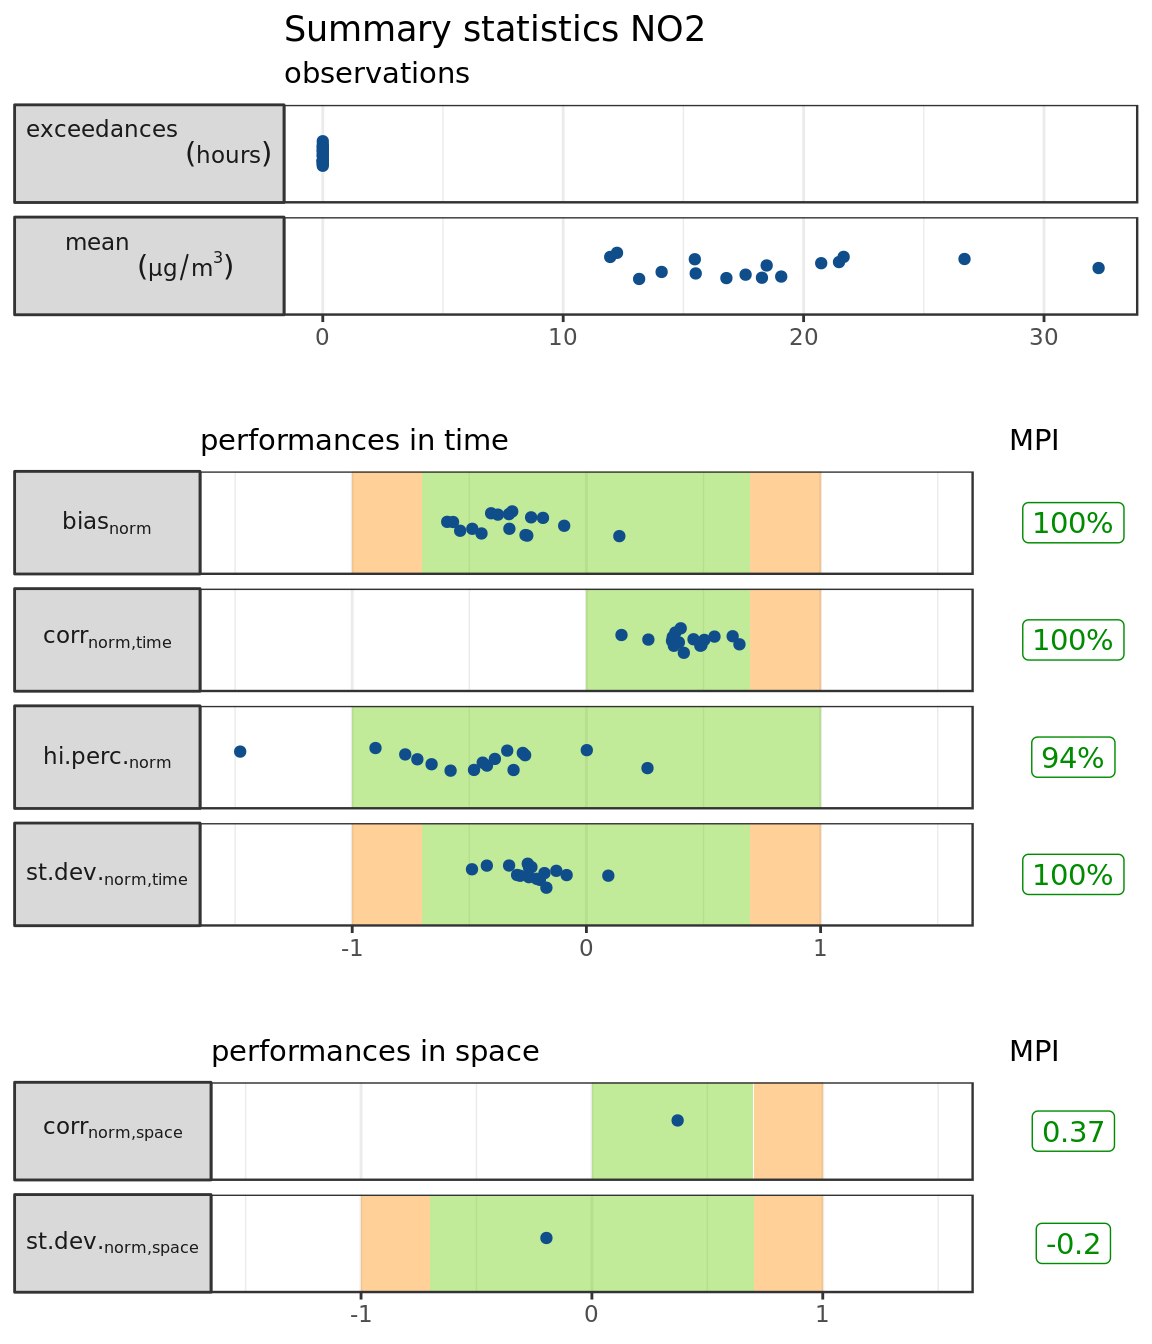
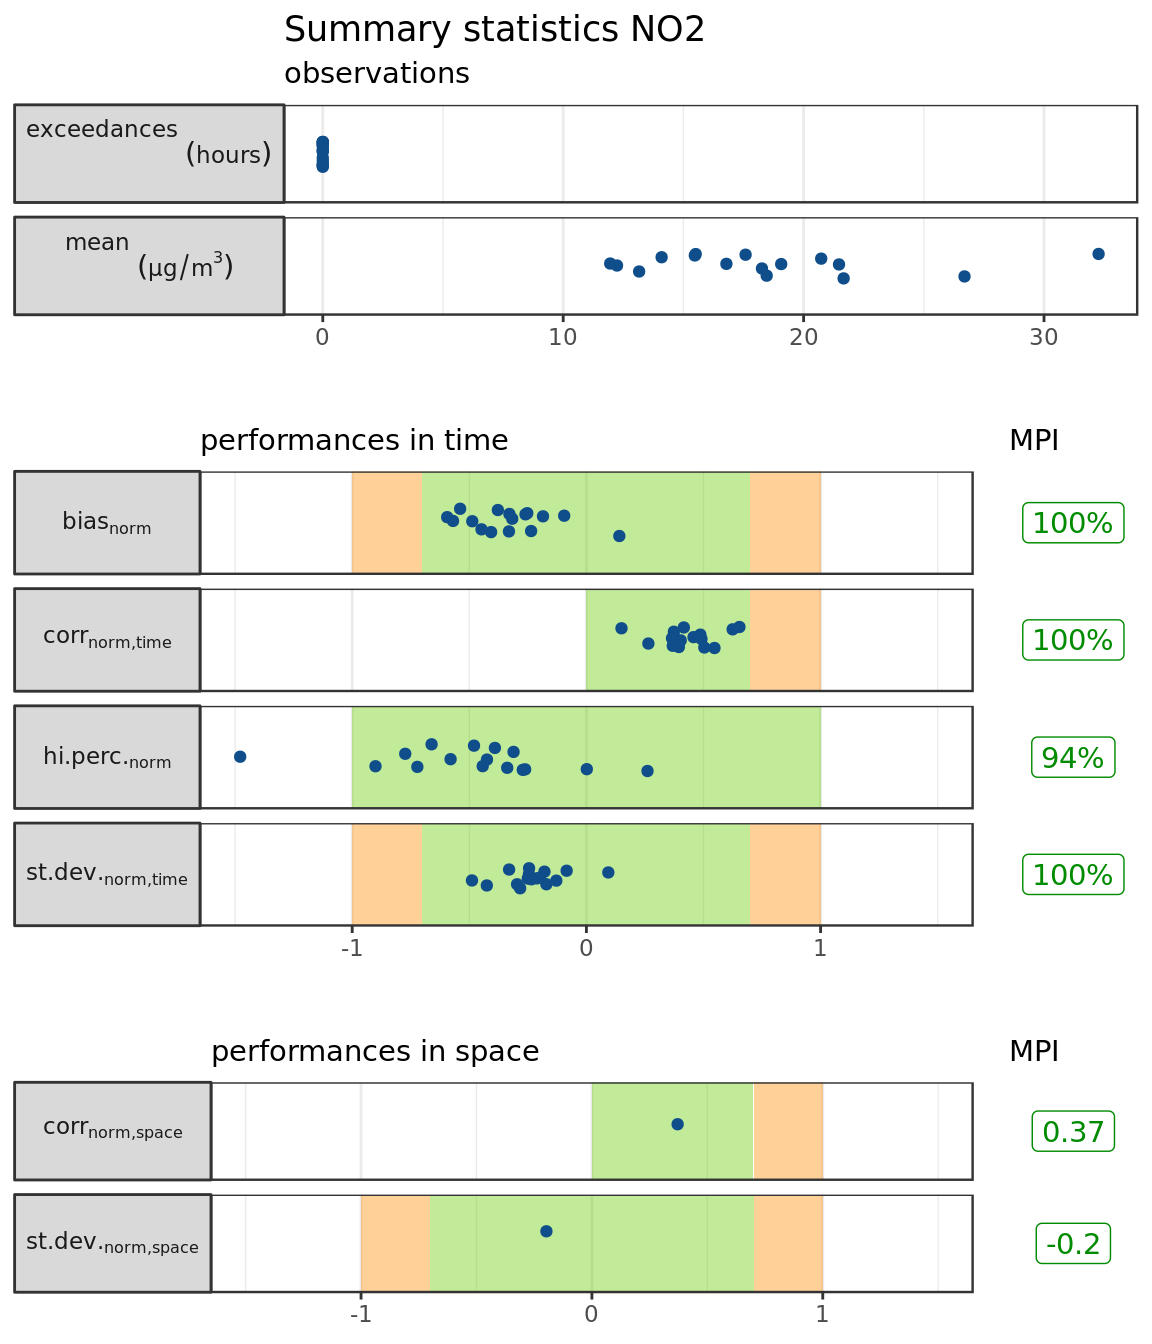
updated doc pages

diff --git a/docs/articles/dartle-usage.html b/docs/articles/dartle-usage.html
@@ -31,7 +31,7 @@
       </button>
       <span class="navbar-brand">
         <a class="navbar-link" href="../index.html">dartle</a>
-        <span class="version label label-default" data-toggle="tooltip" data-placement="bottom" title="Released version">0.1.1</span>
+        <span class="version label label-default" data-toggle="tooltip" data-placement="bottom" title="Released version">0.1.2</span>
       </span>
     </div>
 
@@ -567,19 +567,19 @@ t_rep &lt;-<span class="st"> </span><span class="kw"><a href="../reference/targe
 <div class="sourceCode"><pre class="sourceCode r"><code class="sourceCode r">s_rep &lt;-<span class="st"> </span><span class="kw"><a href="../reference/summary_plot.html">summary_report</a></span>(Dat.pm10, <span class="dt">obs =</span> <span class="st">"Value.obs"</span>, <span class="dt">mod =</span> <span class="st">"Value.mod"</span>,
                        <span class="dt">point =</span> <span class="st">"Point"</span>, <span class="dt">pollutant =</span> <span class="st">"PM10"</span>)
 <span class="kw"><a href="../reference/summary_plot.html">summary_plot</a></span>(s_rep)</code></pre></div>
-<p><img src="dartle-usage_files/figure-html/unnamed-chunk-20-1.png" width="576">NULL</p>
+<p><img src="dartle-usage_files/figure-html/unnamed-chunk-20-1.png" width="576"></p>
 <div class="sourceCode"><pre class="sourceCode r"><code class="sourceCode r">s_rep &lt;-<span class="st"> </span><span class="kw"><a href="../reference/summary_plot.html">summary_report</a></span>(Dat.pm25, <span class="dt">obs =</span> <span class="st">"Value.obs"</span>, <span class="dt">mod =</span> <span class="st">"Value.mod"</span>,
                        <span class="dt">point =</span> <span class="st">"Point"</span>, <span class="dt">pollutant =</span> <span class="st">"PM2.5"</span>)
 <span class="kw"><a href="../reference/summary_plot.html">summary_plot</a></span>(s_rep)</code></pre></div>
-<p><img src="dartle-usage_files/figure-html/unnamed-chunk-21-1.png" width="576">NULL</p>
+<p><img src="dartle-usage_files/figure-html/unnamed-chunk-21-1.png" width="576"></p>
 <div class="sourceCode"><pre class="sourceCode r"><code class="sourceCode r">s_rep &lt;-<span class="st"> </span><span class="kw"><a href="../reference/summary_plot.html">summary_report</a></span>(Dat.no2, <span class="dt">obs =</span> <span class="st">"Value.obs"</span>, <span class="dt">mod =</span> <span class="st">"Value.mod"</span>,
                        <span class="dt">point =</span> <span class="st">"Point"</span>, <span class="dt">pollutant =</span> <span class="st">"NO2"</span>)
 <span class="kw"><a href="../reference/summary_plot.html">summary_plot</a></span>(s_rep)</code></pre></div>
-<p><img src="dartle-usage_files/figure-html/unnamed-chunk-22-1.png" width="576">NULL</p>
+<p><img src="dartle-usage_files/figure-html/unnamed-chunk-22-1.png" width="576"></p>
 <div class="sourceCode"><pre class="sourceCode r"><code class="sourceCode r">s_rep &lt;-<span class="st"> </span><span class="kw"><a href="../reference/summary_plot.html">summary_report</a></span>(Dat.o3, <span class="dt">obs =</span> <span class="st">"Value.obs"</span>, <span class="dt">mod =</span> <span class="st">"Value.mod"</span>,
                        <span class="dt">point =</span> <span class="st">"Point"</span>, <span class="dt">pollutant =</span> <span class="st">"O3"</span>)
 <span class="kw"><a href="../reference/summary_plot.html">summary_plot</a></span>(s_rep)</code></pre></div>
-<p><img src="dartle-usage_files/figure-html/unnamed-chunk-23-1.png" width="576">NULL</p>
+<p><img src="dartle-usage_files/figure-html/unnamed-chunk-23-1.png" width="576"></p>
 </div>
 <div id="references" class="section level2">
 <h2 class="hasAnchor">

diff --git a/docs/news/index.html b/docs/news/index.html
@@ -61,7 +61,7 @@
       </button>
       <span class="navbar-brand">
         <a class="navbar-link" href="../index.html">dartle</a>
-        <span class="version label label-default" data-toggle="tooltip" data-placement="bottom" title="Released version">0.1.1</span>
+        <span class="version label label-default" data-toggle="tooltip" data-placement="bottom" title="Released version">0.1.2</span>
       </span>
     </div>
 
@@ -119,6 +119,15 @@
       
     </div>
 
+    <div id="dartle-0-1-2" class="section level1">
+<h1 class="page-header">
+<a href="#dartle-0-1-2" class="anchor"></a>dartle 0.1.2</h1>
+<ul>
+<li>in summary_plot: customizable title, no NULL output</li>
+<li>updated man pages</li>
+<li>updated doc pages</li>
+</ul>
+</div>
     <div id="dartle-0-1-1" class="section level1">
 <h1 class="page-header">
 <a href="#dartle-0-1-1" class="anchor"></a>dartle 0.1.1</h1>
@@ -143,6 +152,7 @@
     <div id="tocnav">
       <h2>Contents</h2>
       <ul class="nav nav-pills nav-stacked">
+        <li><a href="#dartle-0-1-2">0.1.2</a></li>
         <li><a href="#dartle-0-1-1">0.1.1</a></li>
         <li><a href="#dartle-0-1-0">0.1.0</a></li>
       </ul>

diff --git a/docs/reference/mod.data.html b/docs/reference/mod.data.html
@@ -65,7 +65,7 @@ background sites in the region of Friuli Venezia Giulia (Italy)" />
       </button>
       <span class="navbar-brand">
         <a class="navbar-link" href="../index.html">dartle</a>
-        <span class="version label label-default" data-toggle="tooltip" data-placement="bottom" title="Released version">0.1.1</span>
+        <span class="version label label-default" data-toggle="tooltip" data-placement="bottom" title="Released version">0.1.2</span>
       </span>
     </div>
 

diff --git a/docs/reference/obs.no2.html b/docs/reference/obs.no2.html
@@ -65,7 +65,7 @@ region of Friuli Venezia Giulia (Italy)" />
       </button>
       <span class="navbar-brand">
         <a class="navbar-link" href="../index.html">dartle</a>
-        <span class="version label label-default" data-toggle="tooltip" data-placement="bottom" title="Released version">0.1.1</span>
+        <span class="version label label-default" data-toggle="tooltip" data-placement="bottom" title="Released version">0.1.2</span>
       </span>
     </div>
 

diff --git a/docs/reference/obs.o3.html b/docs/reference/obs.o3.html
@@ -65,7 +65,7 @@ region of Friuli Venezia Giulia (Italy)" />
       </button>
       <span class="navbar-brand">
         <a class="navbar-link" href="../index.html">dartle</a>
-        <span class="version label label-default" data-toggle="tooltip" data-placement="bottom" title="Released version">0.1.1</span>
+        <span class="version label label-default" data-toggle="tooltip" data-placement="bottom" title="Released version">0.1.2</span>
       </span>
     </div>
 

diff --git a/docs/reference/obs.pm10.html b/docs/reference/obs.pm10.html
@@ -65,7 +65,7 @@ region of Friuli Venezia Giulia (Italy)" />
       </button>
       <span class="navbar-brand">
         <a class="navbar-link" href="../index.html">dartle</a>
-        <span class="version label label-default" data-toggle="tooltip" data-placement="bottom" title="Released version">0.1.1</span>
+        <span class="version label label-default" data-toggle="tooltip" data-placement="bottom" title="Released version">0.1.2</span>
       </span>
     </div>
 

diff --git a/docs/reference/obs.pm25.html b/docs/reference/obs.pm25.html
@@ -65,7 +65,7 @@ region of Friuli Venezia Giulia (Italy)" />
       </button>
       <span class="navbar-brand">
         <a class="navbar-link" href="../index.html">dartle</a>
-        <span class="version label label-default" data-toggle="tooltip" data-placement="bottom" title="Released version">0.1.1</span>
+        <span class="version label label-default" data-toggle="tooltip" data-placement="bottom" title="Released version">0.1.2</span>
       </span>
     </div>
 

diff --git a/docs/reference/obs_uncertainty.html b/docs/reference/obs_uncertainty.html
@@ -65,7 +65,7 @@ RMS_U_obs: Root Mean Square Uncertainty" />
       </button>
       <span class="navbar-brand">
         <a class="navbar-link" href="../index.html">dartle</a>
-        <span class="version label label-default" data-toggle="tooltip" data-placement="bottom" title="Released version">0.1.1</span>
+        <span class="version label label-default" data-toggle="tooltip" data-placement="bottom" title="Released version">0.1.2</span>
       </span>
     </div>
 

diff --git a/docs/articles/rsconnect/documents/dartle-usage.html b/docs/articles/rsconnect/documents/dartle-usage.html
@@ -31,7 +31,7 @@
       </button>
       <span class="navbar-brand">
         <a class="navbar-link" href="../../../index.html">dartle</a>
-        <span class="version label label-default" data-toggle="tooltip" data-placement="bottom" title="Released version">0.1.1</span>
+        <span class="version label label-default" data-toggle="tooltip" data-placement="bottom" title="Released version">0.1.2</span>
       </span>
     </div>
 

diff --git a/docs/articles/index.html b/docs/articles/index.html
@@ -61,7 +61,7 @@
       </button>
       <span class="navbar-brand">
         <a class="navbar-link" href="../index.html">dartle</a>
-        <span class="version label label-default" data-toggle="tooltip" data-placement="bottom" title="Released version">0.1.1</span>
+        <span class="version label label-default" data-toggle="tooltip" data-placement="bottom" title="Released version">0.1.2</span>
       </span>
     </div>
 

diff --git a/docs/reference/MPI.html b/docs/reference/MPI.html
@@ -64,7 +64,7 @@
       </button>
       <span class="navbar-brand">
         <a class="navbar-link" href="../index.html">dartle</a>
-        <span class="version label label-default" data-toggle="tooltip" data-placement="bottom" title="Released version">0.1.1</span>
+        <span class="version label label-default" data-toggle="tooltip" data-placement="bottom" title="Released version">0.1.2</span>
       </span>
     </div>
 

diff --git a/docs/reference/MQI.html b/docs/reference/MQI.html
@@ -64,7 +64,7 @@
       </button>
       <span class="navbar-brand">
         <a class="navbar-link" href="../index.html">dartle</a>
-        <span class="version label label-default" data-toggle="tooltip" data-placement="bottom" title="Released version">0.1.1</span>
+        <span class="version label label-default" data-toggle="tooltip" data-placement="bottom" title="Released version">0.1.2</span>
       </span>
     </div>
 
